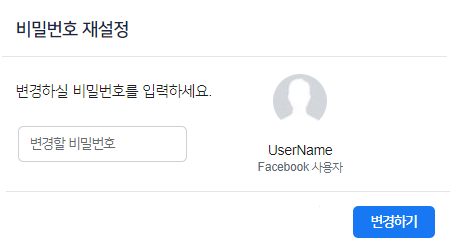
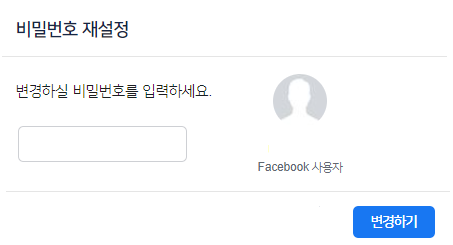
수정

Changed region(s): [[0.0618, 0.5429, 0.2472, 0.6286], [0.5872, 0.5714, 0.7417, 0.6571]]

diff --git a/NetworkProject/src/ChangeFrame.java b/NetworkProject/src/ChangeFrame.java
@@ -24,7 +24,7 @@ public class ChangeFrame extends JFrame implements ActionListener {
 	ChangeFrame(User _us) {
 
 		us = _us;
-		
+
 		icon = new ImageIcon("src/Image/ChangePanel.png");
 		Image img = icon.getImage();
 		Image changeImg = img.getScaledInstance(453, 245, java.awt.Image.SCALE_SMOOTH);
@@ -57,7 +57,7 @@ public class ChangeFrame extends JFrame implements ActionListener {
 		changePanel.add(changeBtn);
 
 		/* Panel 추가 작업 */
-		add(changePanel);
+		getContentPane().add(changePanel);
 
 		/* Button 이벤트 리스너 추가 */
 
@@ -65,6 +65,15 @@ public class ChangeFrame extends JFrame implements ActionListener {
 		setSize(455, 280);
 		setLocationRelativeTo(null);
 		changePanel.setLayout(null);
+
+		JLabel userName = new JLabel() {
+			@Override
+			public void setBorder(Border border) {
+			}
+		};
+		userName.setBounds(269, 145, 65, 14);
+		userName.setText(us.getUserName());
+		changePanel.add(userName);
 
 		setResizable(false);
 		setVisible(true);
@@ -79,7 +88,15 @@ public class ChangeFrame extends JFrame implements ActionListener {
 		}
 
 		if (e.getSource() == changeBtn) {
-			System.out.println("1");
+			if (!upass.equals("")) {
+				New_Client.pw.println("52282#" + us.getUserID() + "#" + upass + "#" + us.getSalt());
+				JOptionPane.showMessageDialog(null, "변경되었습니다");
+				dispose();
+			}
+			else if(upass.equals(""))
+			{
+				JOptionPane.showMessageDialog(null, "공백으로 둘 수 없습니다.", "변경 실패", JOptionPane.ERROR_MESSAGE);
+			}
 		}
 
 		else {
@@ -87,35 +104,4 @@ public class ChangeFrame extends JFrame implements ActionListener {
 		}
 
 	}
-
-	boolean joinCheck(String _i, String _p) {
-		boolean flag = false;
-
-		String id = _i;
-		String pw = _p;
-		Connection con = null;
-		Statement stmt = null;
-		String url = "jdbc:mysql://localhost/network?serverTimezone=Asia/Seoul"; // network 스키마
-		String user = "root"; // 데이터베이스 아이디
-		String passwd = "12345"; // 데이터베이스 비번
-
-		try {
-			Class.forName("com.mysql.cj.jdbc.Driver");
-			con = DriverManager.getConnection(url, user, passwd);
-			stmt = con.createStatement();
-			String insertStr = "INSERT INTO client_list (client_id, client_password) VALUES('" + id + "', '" + pw
-					+ "')";
-			stmt.executeUpdate(insertStr);
-			insertStr = "INSERT INTO login_check VALUES('" + id + "', 'logout')";
-			stmt.executeUpdate(insertStr);
-			flag = true;
-			System.out.println("회원가입 성공");
-		} catch (Exception e) {
-			flag = false;
-			System.out.println("회원가입 실패 > " + e.toString());
-		}
-
-		return flag;
-	}
-
 }

diff --git a/NetworkProject/src/New_Server.java b/NetworkProject/src/New_Server.java
@@ -38,8 +38,6 @@ public class New_Server {
 		listener = new ServerSocket(PORT_NO);// 초기화
 
 		System.out.println("ON PORT : " + PORT_NO);
-		listener = new ServerSocket(PORT_NO);// 초기화
-		System.out.println("ON PORT : " + PORT_NO);
 
 		socket = listener.accept(); // 외부에서 소켓이 연결할때까지 대기함
 		System.out.println("accept Connections");
@@ -58,7 +56,7 @@ public class New_Server {
 				break;
 			}
 			
-			if (division[0].equals("52268")) // 계정 확인
+			else if (division[0].equals("52268")) // 계정 확인
 			{
 				int check = SQLInterface.checkAccount(division[1], division[2], division[3]);
 				System.out.println("check is "+ check);
@@ -66,7 +64,7 @@ public class New_Server {
 			}
 			
 
-			if (division[0].equals("52272")) // 로그인
+			else if (division[0].equals("52272")) // 로그인
 			{
 				System.out.println(division[1] + division[2]);
 				int check = SQLInterface.validLogin(division[1], division[2]);
@@ -74,12 +72,12 @@ public class New_Server {
 				pw.println(check);
 			}
 			
-			if(division[0].equals("52270")) // 로그아웃
+			else if(division[0].equals("52270")) // 로그아웃
 			{
 				SQLInterface.client_logout(division[1]);
 			}
 			
-			if(division[0].equals("52269")) // 이건 친구목록 리스트 가져오기
+			else if(division[0].equals("52269")) // 이건 친구목록 리스트 가져오기
 			{
 				String[] temp=null;
 				temp = getSearch(division[1]);
@@ -90,6 +88,11 @@ public class New_Server {
 					pw.println(temp[i]);
 				}
 				pw.println("-1"); // -1은 종료값으로 전달
+			}
+			
+			else if(division[0].equals("52282"))
+			{
+				SQLInterface.validPWChange(division[1], division[2], division[3]);
 			}
 		}
 	}

diff --git a/NetworkProject/src/CheckFrame.java b/NetworkProject/src/CheckFrame.java
@@ -121,7 +121,7 @@ public class CheckFrame extends JFrame implements ActionListener {
 					int check = Integer.parseInt(New_Client.br.readLine());
 					if(check==1)
 					{
-						JOptionPane.showMessageDialog(null, "로그인에 성공하였습니다");
+						JOptionPane.showMessageDialog(null, "계정을 조회하였습니다");
 						new ChangeFrame(us);
 						dispose();
 					}
@@ -140,12 +140,8 @@ public class CheckFrame extends JFrame implements ActionListener {
 			}
 
 		}
-		if (e.getSource() == ExitBtn) {
+		else if (e.getSource() == ExitBtn) {
 			dispose();
-		}
-
-		else {
-			System.out.println("오류입니다");
 		}
 
 	}

diff --git a/NetworkProject/src/LoginFrame.java b/NetworkProject/src/LoginFrame.java
@@ -124,7 +124,6 @@ public class LoginFrame extends JFrame implements ActionListener {
 
 		else if (e.getSource() == changeBtn) {
 			cf = new CheckFrame(us);
-			System.out.println("1");
 		}
 
 		else {
